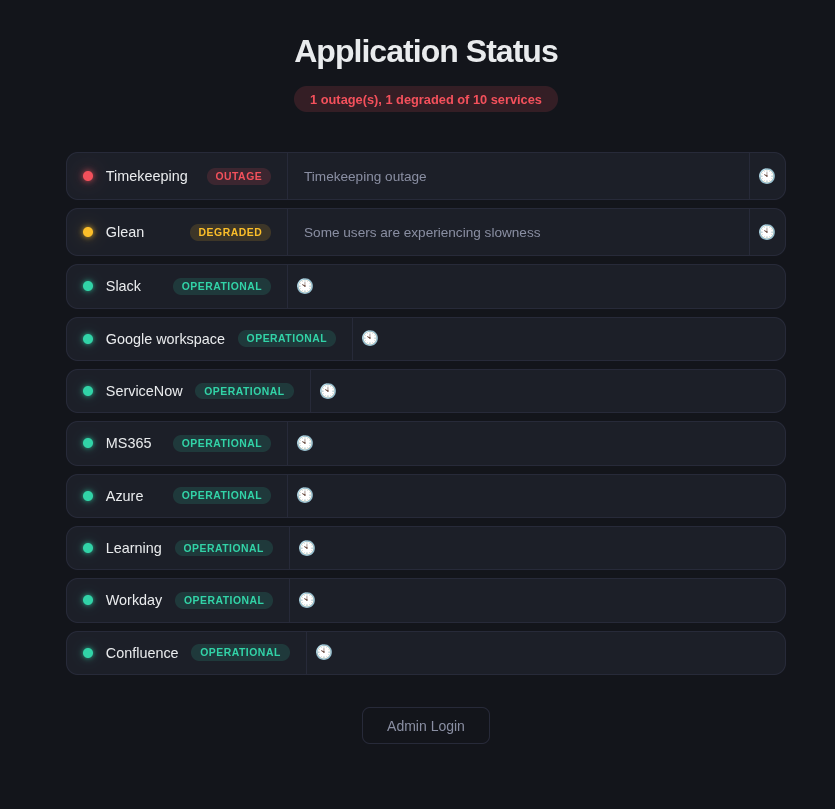
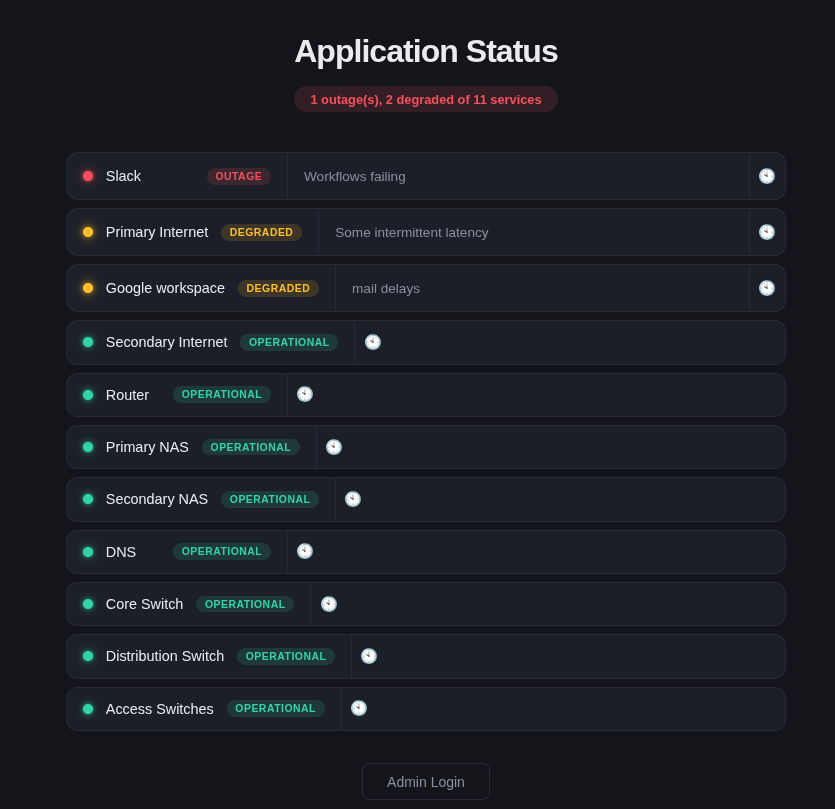
docs: update dashboard screenshot to show all three status states

diff --git a/README.md b/README.md
@@ -18,7 +18,7 @@
 
 ![Application Status Dashboard](screenshots/dashboard.png)
 
-A dark-themed, mobile-responsive dashboard showing all monitored services with colored status indicators (🟢 Operational, 🟡 Degraded, 🔴 Outage), per-service notes, and a summary pill at the top.
+A dark-themed, mobile-responsive dashboard showing monitored services with colored status indicators (🟢 Operational, 🟡 Degraded, 🔴 Outage), per-service notes, and a summary pill at the top.
 
 ---
 
